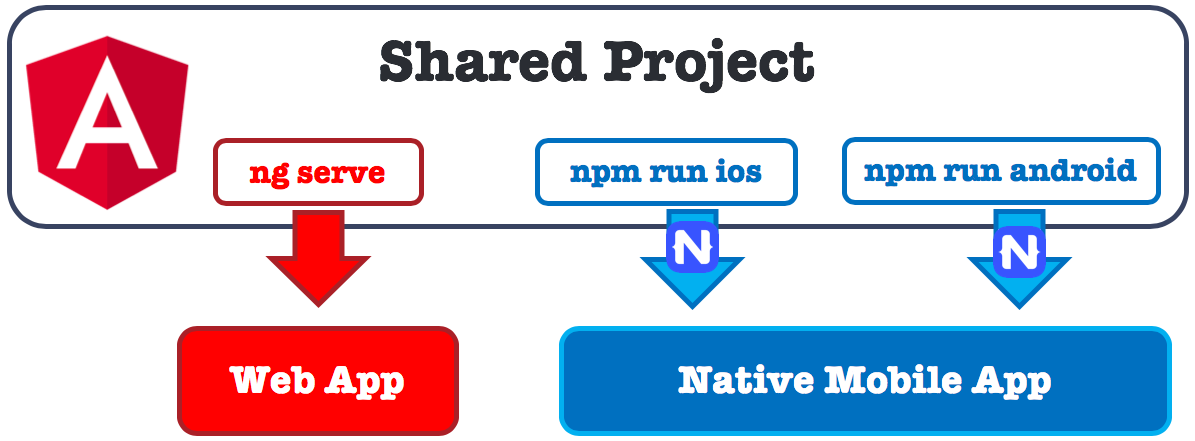
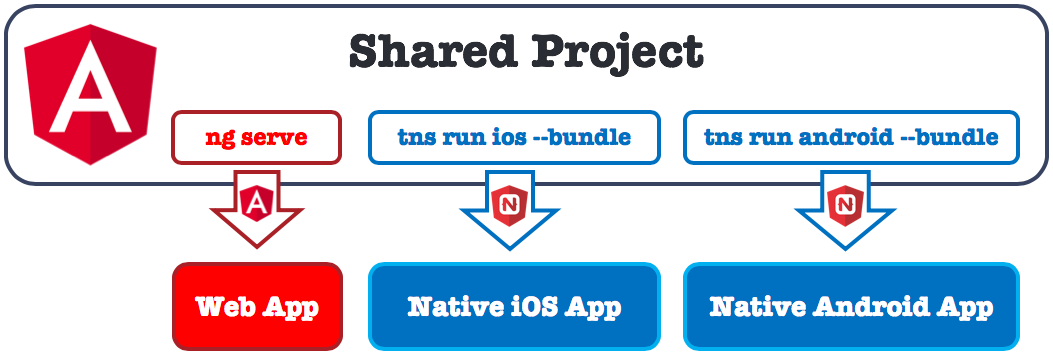
Update links and graphics

Changed region(s): [[0.0, 0.0, 1.0, 0.9888], [0.3039, 0.0927, 0.699, 0.2163]]

diff --git a/angular-web-and-mobile/angular-web-and-mobile.md b/angular-web-and-mobile/angular-web-and-mobile.md
@@ -202,7 +202,7 @@ As you can see, building for both the web and mobile from a single project is fa
 
 [Go ahead and give it a try](https://docs.nativescript.org/code-sharing/), as it really is that simple. You are one simple `ng add` or `ng new` away from the wonders of code sharing in Angular.
 
-We would love to hear from you, let us know what works for you, what doesn't, and how things could be improved. Any constructive feedback is always welcome.
+We would love to hear from you, let us know what works for you, what doesn't, and how things could be improved. Any constructive feedback is always welcome. Please, [send feedback here](https://github.com/NativeScript/nativescript-schematics/issues/new?labels=feedback).
 
 ### Learn more
 
@@ -213,4 +213,4 @@ This article covers the core functionality around sharing code between the web a
  * the NativeScript-specific generators,
  * or handling libraries with mismatched APIs - that is when we have two similar libraries with a different API interface for web and mobile
 
-To learn more, see our documentation at [docs.nativescript.org/angular/code-sharing/](https://docs.nativescript.org/code-sharing/)
+To learn more, see our documentation at [docs.nativescript.org/angular/code-sharing/intro](https://docs.nativescript.org/angular/code-sharing/intro)
